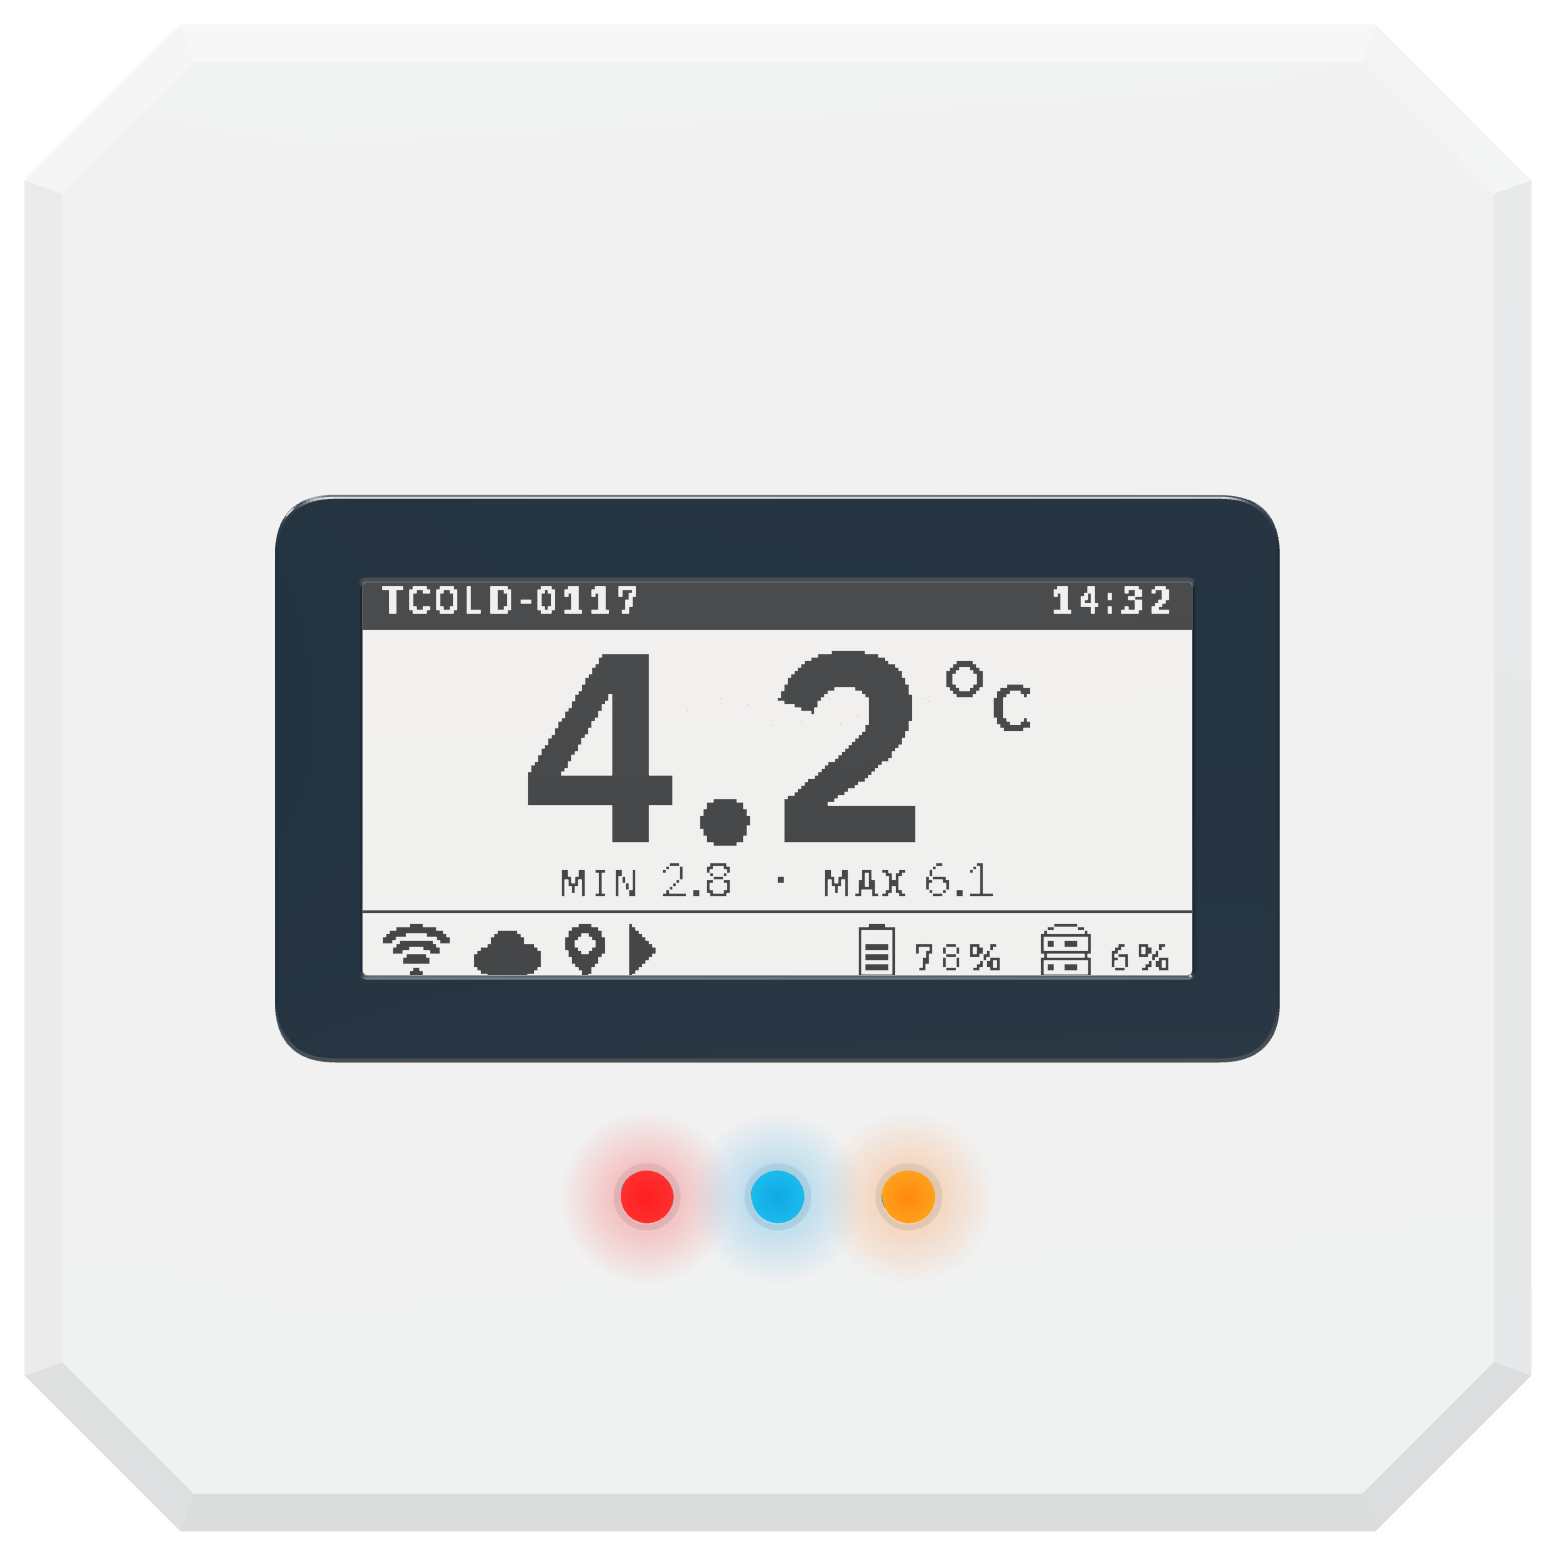
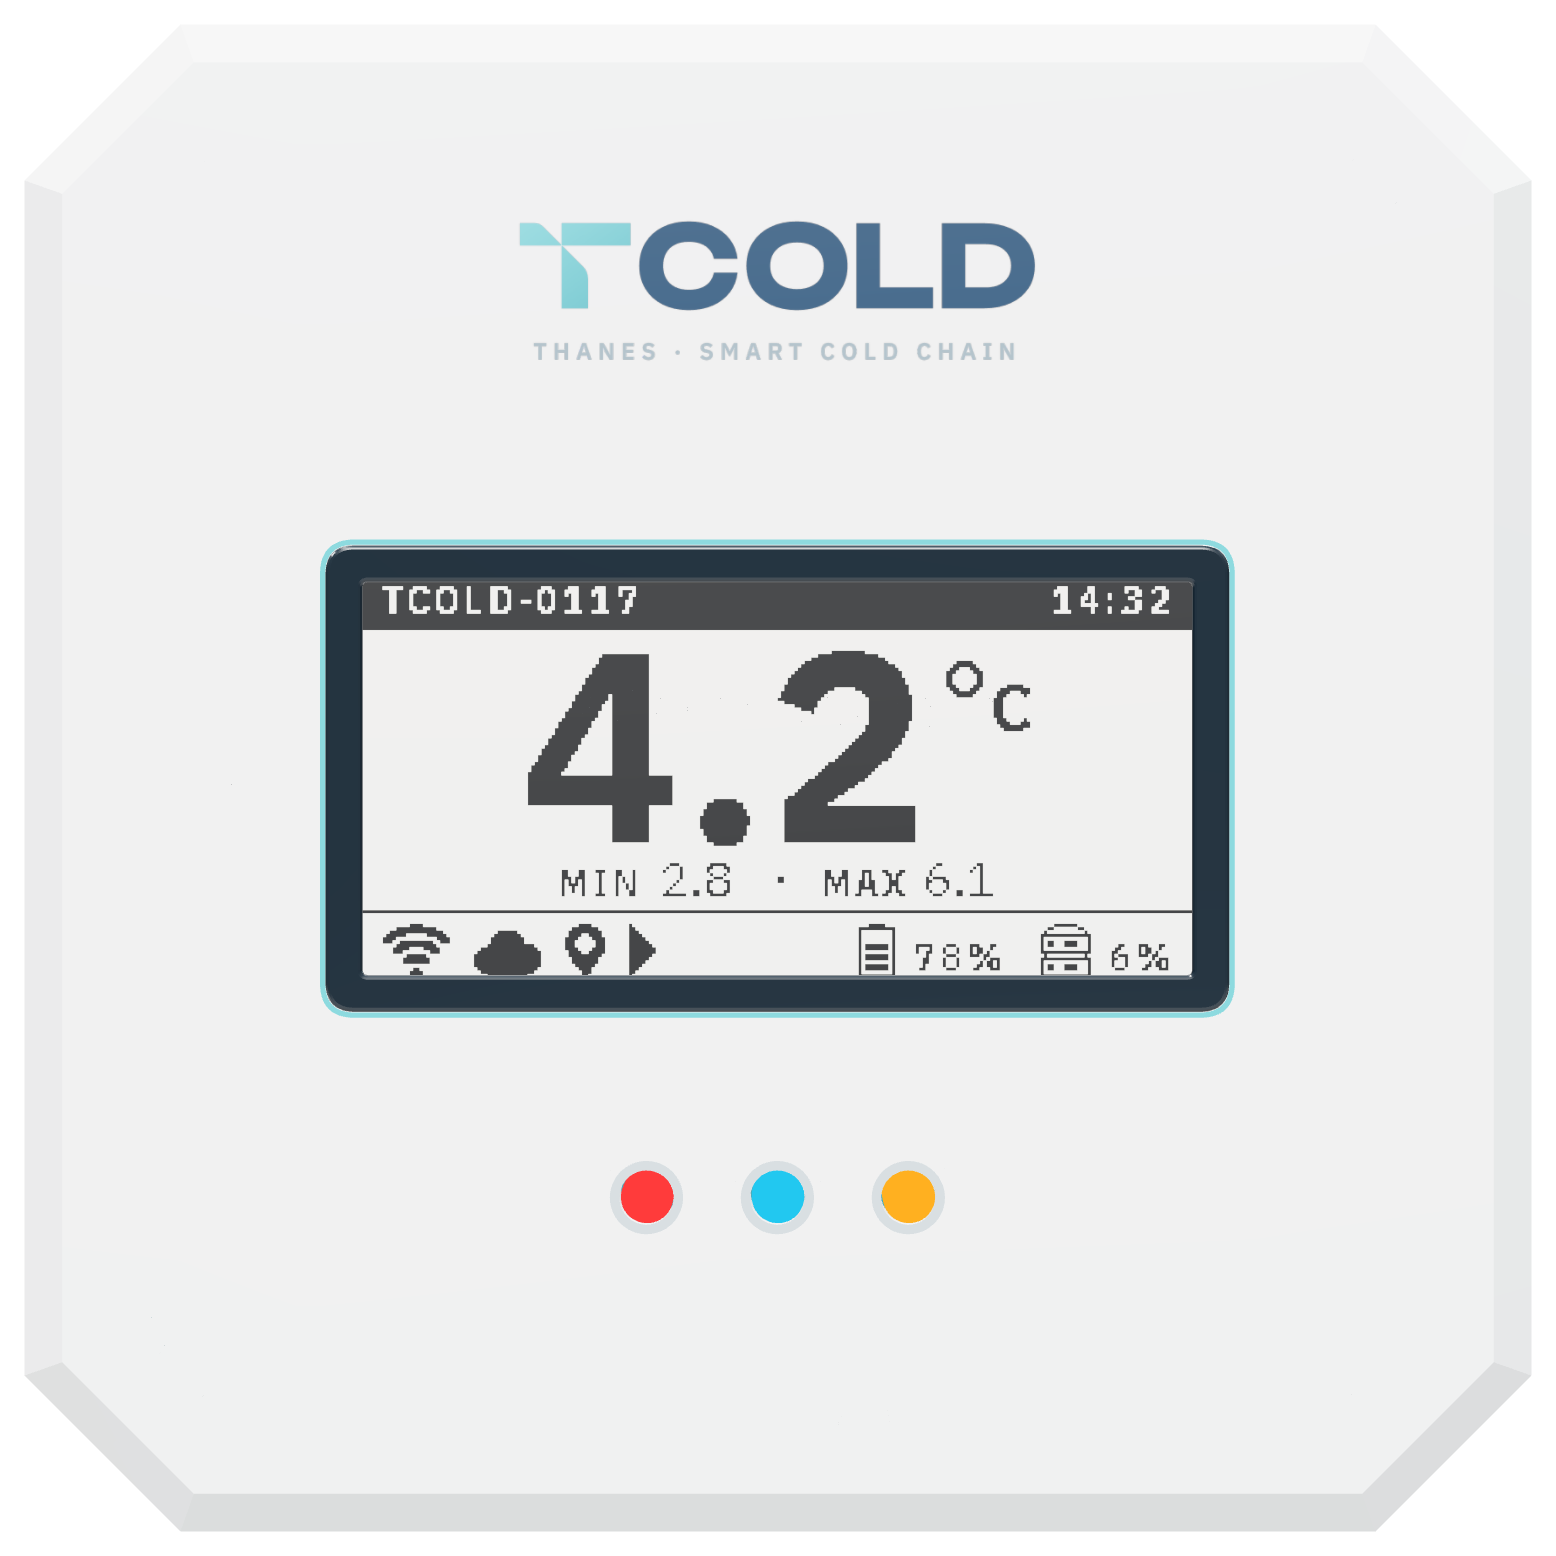
mockup: thinner screen frame, plain LEDs
The dark lens frame round the e-paper window is now 1.6 mm a side
instead of 4.5 mm, and the three front LEDs are solid colour with no
halo and no CARGO / TRIP / DEVICE print under them.

The front print sat inside the case in some views: the case front is
not flat (z 6.12 to 6.197 after centring), so FRONT_Z is now 6.2.

Claude-Session: https://claude.ai/code/session_01Hb5hSaZuVXUJF1NvuuXZKa

Changed region(s): [[0.1542, 0.3085, 0.8329, 0.8329], [0.3393, 0.1234, 0.6787, 0.2468]]

diff --git a/mockup/scene.js b/mockup/scene.js
@@ -10,7 +10,7 @@ export const qjson = (k, d) => JSON.parse(Q.get(k) || JSON.stringify(d));
 
 // centre of the case in STEP coordinates
 export const C = new THREE.Vector3(-21.5, 5.8, 15.65);
-export const FRONT_Z = 6.15;          // front face of Main Case_BOT after centring
+export const FRONT_Z = 6.2;           // just above the front face of Main Case_BOT (6.12–6.197, not flat)
 export const WIN = {w: 48, h: 23};    // display window, centred on the origin
 export const LED_Y = -24, LED_X = [-7.5, 0, 7.5];   // front light pipes, left to right
 export const COL = {navy: '#0b3550', teal: '#0e8391', teal2: '#1aa5b5', muted: '#5f707c'};
@@ -99,40 +99,27 @@ export function bezel(parent, z = FRONT_Z + 0.03) {
     s.quadraticCurveTo(-w / 2, h / 2, -w / 2, h / 2 - r); s.lineTo(-w / 2, -h / 2 + r); s.quadraticCurveTo(-w / 2, -h / 2, -w / 2 + r, -h / 2);
     return s;
   };
-  const outer = rr(new THREE.Shape(), WIN.w + 9, WIN.h + 9, 3.2);
+  const outer = rr(new THREE.Shape(), WIN.w + 3.2, WIN.h + 3.2, 1.4);   // 1.6 mm frame each side
   outer.holes.push(rr(new THREE.Path(), WIN.w, WIN.h, 0.6));
   const g = new THREE.ExtrudeGeometry(outer, {depth: .35, bevelEnabled: true, bevelThickness: .15, bevelSize: .25, bevelSegments: 3, curveSegments: 24});
   const m = new THREE.Mesh(g, new THREE.MeshPhysicalMaterial({color: 0x18252e, roughness: .18, clearcoat: 1, clearcoatRoughness: .05}));
   m.position.z = z; parent.add(m);
   // thin teal keyline on the outer edge
-  const ring = rr(new THREE.Shape(), WIN.w + 10.6, WIN.h + 10.6, 3.9);
-  ring.holes.push(rr(new THREE.Path(), WIN.w + 9.4, WIN.h + 9.4, 3.3));
+  const ring = rr(new THREE.Shape(), WIN.w + 4.4, WIN.h + 4.4, 2.0);
+  ring.holes.push(rr(new THREE.Path(), WIN.w + 3.8, WIN.h + 3.8, 1.7));
   const k = new THREE.Mesh(new THREE.ShapeGeometry(ring, 24), new THREE.MeshPhysicalMaterial({color: 0x1aa5b5, roughness: .3, clearcoat: .6, polygonOffset: true, polygonOffsetFactor: -2}));
   k.position.z = FRONT_Z + 0.02; parent.add(k);
   return m;
 }
 
-// Front LEDs: lit light pipes, a soft halo each and the CARGO / TRIP / DEVICE print under them
-export function leds(parent, pipes, colors = LED_COL, {labels = true} = {}) {
+// Front LEDs: lit light pipes in their position colours, no glow and no print
+export function leds(parent, pipes, colors = LED_COL) {
   pipes.forEach((p, i) => {
-    const c = new THREE.Color(colors[i]);
-    p.material = new THREE.MeshBasicMaterial({color: c, toneMapped: false});
-    const cv = document.createElement('canvas'); cv.width = cv.height = 128; const x = cv.getContext('2d');
-    const g = x.createRadialGradient(64, 64, 0, 64, 64, 64), s = `${Math.round(c.r * 255)},${Math.round(c.g * 255)},${Math.round(c.b * 255)}`;
-    g.addColorStop(0, `rgba(${s},.6)`); g.addColorStop(.32, `rgba(${s},.22)`); g.addColorStop(1, `rgba(${s},0)`);
-    x.fillStyle = g; x.fillRect(0, 0, 128, 128);
-    const h = new THREE.Mesh(new THREE.PlaneGeometry(10, 10), new THREE.MeshBasicMaterial({map: canvasTex(cv), transparent: true, depthWrite: false, toneMapped: false}));
-    h.position.set(LED_X[i], LED_Y, FRONT_Z + .25); parent.add(h);
-    // dark ring so an unlit pipe still reads against the white case
-    const r = new THREE.Mesh(new THREE.RingGeometry(1.55, 2.3, 48), new THREE.MeshPhysicalMaterial({color: 0x9fb0b8, roughness: .4, polygonOffset: true, polygonOffsetFactor: -2}));
+    p.material = new THREE.MeshBasicMaterial({color: new THREE.Color(colors[i]), toneMapped: false});
+    // grey ring so the pipe reads against the white case
+    const r = new THREE.Mesh(new THREE.RingGeometry(1.55, 2.1, 48), new THREE.MeshPhysicalMaterial({color: 0x9fb0b8, roughness: .4, polygonOffset: true, polygonOffsetFactor: -2}));
     r.position.set(LED_X[i], LED_Y, FRONT_Z + .02); parent.add(r);
   });
-  if (!labels) return;
-  const cv = document.createElement('canvas'); cv.width = 1440; cv.height = 160; const x = cv.getContext('2d');
-  x.font = '700 80px Plex'; x.textAlign = 'center'; x.textBaseline = 'middle'; x.fillStyle = '#5f707c';
-  ['CARGO', 'TRIP', 'DEVICE'].forEach((t, i) => x.fillText(t, 720 + LED_X[i] * 1440 / 36, 80));
-  const m = new THREE.Mesh(new THREE.PlaneGeometry(36, 4), new THREE.MeshPhysicalMaterial({map: canvasTex(cv), transparent: true, roughness: .4, polygonOffset: true, polygonOffsetFactor: -2}));
-  m.position.set(0, LED_Y - 5, FRONT_Z + .02); parent.add(m);
 }
 
 // TCOLD wordmark printed above the screen (brand/TCOLD_logo.svg) with the THANES line under it

diff --git a/mockup/explode.html b/mockup/explode.html
@@ -92,7 +92,7 @@ const Le = layer('eink'); K.mesh(G.eink, K.M.eink(), Le); await K.screen(Le, 20.
 const Lpi = layer('pipes'); const pipes = G.pipes.map(g => K.mesh(g, K.M.pipe(), Lpi));
 pipes.forEach((p, i) => p.material = new THREE.MeshBasicMaterial({color: K.LED_COL[i], toneMapped: false}));
 const Lf = layer('bot'); K.mesh(G.bot, K.M.front(), Lf); K.bezel(Lf); await K.frontPrint(Lf);
-K.leds(Lf, [], [], {labels: true});
+
 
 // thermocouple: leaves the PCB layer's bottom edge, drops to the floor, probe lies in front
 stack.updateMatrixWorld(true);
@@ -112,7 +112,7 @@ const svg = document.getElementById('lines'), box = document.getElementById('cal
 const n = (i, t) => `<em>${i}</em>${t}`;
 const parts = [
   // [anchor, label x, label y, side, title, sub]
-  [pj(P(Lf, -38, 30, 6)), 330, 420, 'l', n(1, 'เคสหน้า'), 'ช่องจอ 48 × 23 มม. · กรอบเลนส์สีเข้ม<br>พิมพ์ชื่อไฟ CARGO · TRIP · DEVICE'],
+  [pj(P(Lf, -38, 30, 6)), 330, 420, 'l', n(1, 'เคสหน้า'), 'ช่องจอ 48 × 23 มม. · กรอบเลนส์สีเข้ม<br>รูไฟสถานะ 3 ดวง'],
   [pj(P(Lpi, 7.5, -24, 6)), 330, 640, 'l', n(2, 'ท่อนำแสงไฟสถานะ'), 'RGB 3 ดวง: แดง สินค้า · ฟ้า ทริป · เหลือง เครื่อง'],
   [pj(P(Le, 20, -8, 5.3)), 980, 800, 'r', n(3, 'จอ e-Paper 2.13″'), '250 × 122 px · ภาพค้างได้โดยไม่ใช้ไฟ'],
   [pj(P(Ln, -14, 34, 4.4)), 560, 222, 'l', n(4, 'บอร์ด NFC'), 'ST25DV04KC · แตะมือถือเพื่อเชื่อมต่อ'],

diff --git a/mockup/objects.html b/mockup/objects.html
@@ -63,7 +63,7 @@ async function part(name) {
   const g = new THREE.Group(); S.add(g); g.rotation.set(...ROT);
   const add = (geo, m) => K.mesh(geo, m, g);
   switch (name) {
-    case 'front_case': add(G.bot, K.M.front()); K.bezel(g); await K.frontPrint(g); K.leds(g, [], [], {labels: true}); break;
+    case 'front_case': add(G.bot, K.M.front()); K.bezel(g); await K.frontPrint(g); break;
     case 'light_pipes': G.pipes.forEach((p, i) => add(p, new THREE.MeshBasicMaterial({color: K.LED_COL[i], toneMapped: false}))); break;
     case 'epaper': add(G.eink, K.M.eink()); await K.screen(g, 20.84 - 15.65 + .03); break;
     case 'nfc_board': {
@@ -128,7 +128,7 @@ if (o === 'device' || o === 'device_front' || o === 'device_back') {
   K.mesh(G.nfc, K.M.board(), L('nfc'));
   const Le = L('eink'); K.mesh(G.eink, K.M.eink(), Le); await K.screen(Le, 20.84 - 15.65 + .03);
   const Lpi = L('pipes'); G.pipes.forEach((p, i) => K.mesh(p, new THREE.MeshBasicMaterial({color: K.LED_COL[i], toneMapped: false}), Lpi));
-  const Lf = L('bot'); K.mesh(G.bot, K.M.front(), Lf); K.bezel(Lf); await K.frontPrint(Lf); K.leds(Lf, [], [], {labels: true});
+  const Lf = L('bot'); K.mesh(G.bot, K.M.front(), Lf); K.bezel(Lf); await K.frontPrint(Lf); 
   cam = new THREE.PerspectiveCamera(24, W / H, 10, 4000); cam.position.set(0, 120, 620); cam.lookAt(10, -20, 0);
 } else if (o === 'thermocouple') {
   // a short loose length of cable ending in the probe

diff --git a/mockup/README.md b/mockup/README.md
@@ -53,9 +53,9 @@
 ## หมายเหตุ
 
 - จอ e-paper คือ state A2 TRIP ACTIVE วาดด้วย `../display-mock/render.py` โดยเปลี่ยนรหัสเครื่องเป็น TCOLD-0117
-  มีกรอบเลนส์สีเข้มรอบช่องจอ (กรอบนี้เป็นสีสำหรับนำเสนอ ไม่มีในไฟล์ STEP)
+  มีกรอบเลนส์สีเข้มกว้าง 1.6 มม. รอบช่องจอ (กรอบนี้เป็นสีสำหรับนำเสนอ ไม่มีในไฟล์ STEP)
 - ไฟหน้า 3 ดวงติดทุกดวงเพื่อให้เห็นสีประจำตำแหน่งตาม `../docs/led-design.md`:
-  ซ้าย CARGO แดง · กลาง TRIP ฟ้า · ขวา DEVICE เหลือง และพิมพ์ชื่อไว้ใต้ไฟ
+  ซ้าย CARGO แดง · กลาง TRIP ฟ้า · ขวา DEVICE เหลือง เป็นสีทึบ ไม่มีแสงฟุ้ง ไม่มีตัวหนังสือใต้ไฟ
   ตอนใช้งานจริงไฟติดเป็นจังหวะตามเหตุการณ์ ไม่ได้ติดพร้อมกัน
 - หน้าจอแอปในมือถือเป็นภาพแนวคิด (`phone.js`) ไม่ใช่ภาพจากเดโมแอป
   ตัวเลขทุกตัวตรงกับหน้าจอ e-paper ส่วนช่วง 2–8 °C และปุ่มต่าง ๆ อิงคู่มือ
